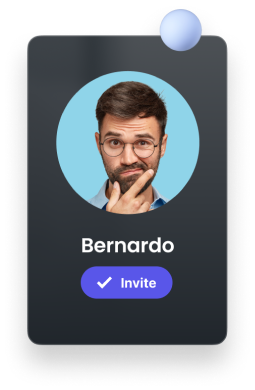
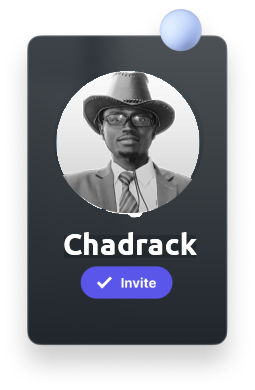
first commit

Changed region(s): [[0.2196, 0.1846, 0.7961, 0.5846], [0.2471, 0.5846, 0.7686, 0.6769]]

diff --git a/team.html b/team.html
@@ -271,7 +271,7 @@
                         <div class="team-grid active">
                             <div class="thumbnail">
                                 <a href="single-team.html">
-                                    <img src="assets/media/team/team-1.png" alt="Team Member">
+                                    <img src="assets/media/team/team-1.SVG" alt="Team Member">
                                 </a>
                             </div>
                             <div class="content">
@@ -285,7 +285,7 @@
                         <div class="team-grid">
                             <div class="thumbnail">
                                 <a href="single-team.html">
-                                    <img src="assets/media/team/team-2.png" alt="Team Member">
+                                    <img src="assets/media/team/2.png" alt="Team Member">
                                 </a>
                             </div>
                             <div class="content">
@@ -299,7 +299,7 @@
                         <div class="team-grid">
                             <div class="thumbnail">
                                 <a href="single-team.html">
-                                    <img src="assets/media/team/team-3.png" alt="Team Member">
+                                    <img src="assets/media/team/-3.png" alt="Team Member">
                                 </a>
                             </div>
                             <div class="content">
@@ -313,7 +313,7 @@
                         <div class="team-grid">
                             <div class="thumbnail">
                                 <a href="single-team.html">
-                                    <img src="assets/media/team/team-4.png" alt="Team Member">
+                                    <img src="assets/media/team/-4.png" alt="Team Member">
                                 </a>
                             </div>
                             <div class="content">
@@ -327,7 +327,7 @@
                         <div class="team-grid">
                             <div class="thumbnail">
                                 <a href="single-team.html">
-                                    <img src="assets/media/team/team-5.png" alt="Team Member">
+                                    <img src="assets/media/team/-5.png" alt="Team Member">
                                 </a>
                             </div>
                             <div class="content">
@@ -341,7 +341,7 @@
                         <div class="team-grid">
                             <div class="thumbnail">
                                 <a href="single-team.html">
-                                    <img src="assets/media/team/team-6.png" alt="Team Member">
+                                    <img src="assets/media/team/-6.png" alt="Team Member">
                                 </a>
                             </div>
                             <div class="content">
@@ -355,7 +355,7 @@
                         <div class="team-grid">
                             <div class="thumbnail">
                                 <a href="single-team.html">
-                                    <img src="assets/media/team/team-7.png" alt="Team Member">
+                                    <img src="assets/media/team/-7.png" alt="Team Member">
                                 </a>
                             </div>
                             <div class="content">
@@ -369,7 +369,7 @@
                         <div class="team-grid">
                             <div class="thumbnail">
                                 <a href="single-team.html">
-                                    <img src="assets/media/team/team-8.png" alt="Team Member">
+                                    <img src="assets/media/team/-8.png" alt="Team Member">
                                 </a>
                             </div>
                             <div class="content">
@@ -399,7 +399,7 @@
                 </div>
                 <div class="about-expert">
                     <div class="thumbnail">
-                        <img src="assets/media/about/about-1.png" alt="Thumbnail">
+                        <img src="assets/media/team/inno.png" alt="Thumbnail">
                         <div class="popup-video">
                             <a href="https://www.youtube.com/watch?v=1iIZeIy7TqM" class="play-btn popup-youtube"><i class="fas fa-play"></i></a>
                         </div>
@@ -552,15 +552,15 @@
                     <div class="row">
                         <div class="col-md-6">
                             <div class="footer-copyright">
-                                <span class="copyright-text">© 2021. All rights reserved by <a
-                                        href="https://axilthemes.com/">Axilthemes</a>.</span>
+                                <span class="copyright-text">© 2025. All rights designed by <a
+                                        href="https://ischadrack.github.io/Softrak/">Chadrack BYAMUNGU
                             </div>
                         </div>
                         <div class="col-md-6">
                             <div class="footer-bottom-link">
                                 <ul class="list-unstyled">
-                                    <li><a href="privacy-policy.html">Privacy Policy</a></li>
-                                    <li><a href="terms-of-use.html">Terms of Use</a></li>
+                                    <li><a href="#">Privacy Policy</a></li>
+                                    <li><a href="#">Terms of Use</a></li>
                                 </ul>
                             </div>
                         </div>

diff --git a/index.html b/index.html
@@ -1024,15 +1024,15 @@
                     <div class="row">
                         <div class="col-md-6">
                             <div class="footer-copyright">
-                                <span class="copyright-text">© 2021. All rights reserved by <a
-                                        href="https://axilthemes.com/">Axilthemes</a>.</span>
+                                <span class="copyright-text">© 2025. All rights designed by <a
+                                        href="https://ischadrack.github.io/Softrak/">Chadrack BYAMUNGU
                             </div>
                         </div>
                         <div class="col-md-6">
                             <div class="footer-bottom-link">
                                 <ul class="list-unstyled">
-                                    <li><a href="privacy-policy.html">Privacy Policy</a></li>
-                                    <li><a href="terms-of-use.html">Terms of Use</a></li>
+                                    <li><a href="#">Privacy Policy</a></li>
+                                    <li><a href="#">Terms of Use</a></li>
                                 </ul>
                             </div>
                         </div>

diff --git a/about.html b/about.html
@@ -547,15 +547,15 @@
                     <div class="row">
                         <div class="col-md-6">
                             <div class="footer-copyright">
-                                <span class="copyright-text">© 2021. All rights reserved by <a
-                                        href="https://axilthemes.com/">Axilthemes</a>.</span>
+                                <span class="copyright-text">© 2025. All rights designed by <a
+                                        href="https://ischadrack.github.io/Softrak/">Chadrack BYAMUNGU
                             </div>
                         </div>
                         <div class="col-md-6">
                             <div class="footer-bottom-link">
                                 <ul class="list-unstyled">
-                                    <li><a href="privacy-policy.html">Privacy Policy</a></li>
-                                    <li><a href="terms-of-use.html">Terms of Use</a></li>
+                                    <li><a href="#">Privacy Policy</a></li>
+                                    <li><a href="#">Terms of Use</a></li>
                                 </ul>
                             </div>
                         </div>

diff --git a/blog.html b/blog.html
@@ -653,15 +653,15 @@
                     <div class="row">
                         <div class="col-md-6">
                             <div class="footer-copyright">
-                                <span class="copyright-text">© 2021. All rights reserved by <a
-                                        href="https://axilthemes.com/">Axilthemes</a>.</span>
+                                <span class="copyright-text">© 2025. All rights designed by <a
+                                        href="https://ischadrack.github.io/Softrak/">Chadrack BYAMUNGU
                             </div>
                         </div>
                         <div class="col-md-6">
                             <div class="footer-bottom-link">
                                 <ul class="list-unstyled">
-                                    <li><a href="privacy-policy.html">Privacy Policy</a></li>
-                                    <li><a href="terms-of-use.html">Terms of Use</a></li>
+                                    <li><a href="#">Privacy Policy</a></li>
+                                    <li><a href="#">Terms of Use</a></li>
                                 </ul>
                             </div>
                         </div>

diff --git a/contact.html b/contact.html
@@ -430,15 +430,15 @@
                     <div class="row">
                         <div class="col-md-6">
                             <div class="footer-copyright">
-                                <span class="copyright-text">© 2021. All rights reserved by <a
-                                        href="https://axilthemes.com/">Axilthemes</a>.</span>
+                                <span class="copyright-text">© 2025. All rights designed by <a
+                                        href="https://ischadrack.github.io/Softrak/">Chadrack BYAMUNGU
                             </div>
                         </div>
                         <div class="col-md-6">
                             <div class="footer-bottom-link">
                                 <ul class="list-unstyled">
-                                    <li><a href="privacy-policy.html">Privacy Policy</a></li>
-                                    <li><a href="terms-of-use.html">Terms of Use</a></li>
+                                    <li><a href="#">Privacy Policy</a></li>
+                                    <li><a href="#">Terms of Use</a></li>
                                 </ul>
                             </div>
                         </div>

diff --git a/portfolio-4.html b/portfolio-4.html
@@ -503,15 +503,15 @@
                     <div class="row">
                         <div class="col-md-6">
                             <div class="footer-copyright">
-                                <span class="copyright-text">© 2021. All rights reserved by <a
-                                        href="https://axilthemes.com/">Axilthemes</a>.</span>
+                                <span class="copyright-text">© 2025. All rights designed by <a
+                                        href="https://ischadrack.github.io/Softrak/">Chadrack BYAMUNGU
                             </div>
                         </div>
                         <div class="col-md-6">
                             <div class="footer-bottom-link">
                                 <ul class="list-unstyled">
-                                    <li><a href="privacy-policy.html">Privacy Policy</a></li>
-                                    <li><a href="terms-of-use.html">Terms of Use</a></li>
+                                    <li><a href="#">Privacy Policy</a></li>
+                                    <li><a href="#">Terms of Use</a></li>
                                 </ul>
                             </div>
                         </div>

diff --git a/service.html b/service.html
@@ -925,15 +925,15 @@
                     <div class="row">
                         <div class="col-md-6">
                             <div class="footer-copyright">
-                                <span class="copyright-text">© 2021. All rights reserved by <a
-                                        href="https://axilthemes.com/">Axilthemes</a>.</span>
+                                <span class="copyright-text">© 2025. All rights designed by <a
+                                        href="https://ischadrack.github.io/Softrak/">Chadrack BYAMUNGU
                             </div>
                         </div>
                         <div class="col-md-6">
                             <div class="footer-bottom-link">
                                 <ul class="list-unstyled">
-                                    <li><a href="privacy-policy.html">Privacy Policy</a></li>
-                                    <li><a href="terms-of-use.html">Terms of Use</a></li>
+                                    <li><a href="#">Privacy Policy</a></li>
+                                    <li><a href="#">Terms of Use</a></li>
                                 </ul>
                             </div>
                         </div>

diff --git a/testimonial.html b/testimonial.html
@@ -493,15 +493,15 @@
                     <div class="row">
                         <div class="col-md-6">
                             <div class="footer-copyright">
-                                <span class="copyright-text">© 2021. All rights reserved by <a
-                                        href="https://axilthemes.com/">Axilthemes</a>.</span>
+                                <span class="copyright-text">© 2025. All rights designed by <a
+                                        href="https://ischadrack.github.io/Softrak/">Chadrack BYAMUNGU
                             </div>
                         </div>
                         <div class="col-md-6">
                             <div class="footer-bottom-link">
                                 <ul class="list-unstyled">
-                                    <li><a href="privacy-policy.html">Privacy Policy</a></li>
-                                    <li><a href="terms-of-use.html">Terms of Use</a></li>
+                                    <li><a href="#">Privacy Policy</a></li>
+                                    <li><a href="#">Terms of Use</a></li>
                                 </ul>
                             </div>
                         </div>

diff --git a/pricing-table.html b/pricing-table.html
@@ -544,14 +544,15 @@
                     <div class="row">
                         <div class="col-md-6">
                             <div class="footer-copyright">
-                                <span class="copyright-text">© 2021. All rights reserved by <a href="https://axilthemes.com/">Axilthemes</a>.</span>
+                                <span class="copyright-text">© 2025. All rights designed by <a
+                                        href="https://ischadrack.github.io/Softrak/">Chadrack BYAMUNGU
                             </div>
                         </div>
                         <div class="col-md-6">
                             <div class="footer-bottom-link">
                                 <ul class="list-unstyled">
-                                    <li><a href="privacy-policy.html">Privacy Policy</a></li>
-                                    <li><a href="terms-of-use.html">Terms of Use</a></li>
+                                    <li><a href="#">Privacy Policy</a></li>
+                                    <li><a href="#">Terms of Use</a></li>
                                 </ul>
                             </div>
                         </div>

diff --git a/privacy-policy.html b/privacy-policy.html
@@ -384,14 +384,15 @@
                     <div class="row">
                         <div class="col-md-6">
                             <div class="footer-copyright">
-                                <span class="copyright-text">© 2021. All rights reserved by <a href="https://axilthemes.com/">Axilthemes</a>.</span>
+                                <span class="copyright-text">© 2025. All rights designed by <a
+                                        href="https://ischadrack.github.io/Softrak/">Chadrack BYAMUNGU
                             </div>
                         </div>
                         <div class="col-md-6">
                             <div class="footer-bottom-link">
                                 <ul class="list-unstyled">
-                                    <li><a href="privacy-policy.html">Privacy Policy</a></li>
-                                    <li><a href="terms-of-use.html">Terms of Use</a></li>
+                                    <li><a href="#">Privacy Policy</a></li>
+                                    <li><a href="#">Terms of Use</a></li>
                                 </ul>
                             </div>
                         </div>

diff --git a/single-blog-quote.html b/single-blog-quote.html
@@ -382,14 +382,15 @@
                     <div class="row">
                         <div class="col-md-6">
                             <div class="footer-copyright">
-                                <span class="copyright-text">© 2021. All rights reserved by <a href="https://axilthemes.com/">Axilthemes</a>.</span>
+                                <span class="copyright-text">© 2025. All rights designed by <a
+                                        href="https://ischadrack.github.io/Softrak/">Chadrack BYAMUNGU
                             </div>
                         </div>
                         <div class="col-md-6">
                             <div class="footer-bottom-link">
                                 <ul class="list-unstyled">
-                                    <li><a href="privacy-policy.html">Privacy Policy</a></li>
-                                    <li><a href="terms-of-use.html">Terms of Use</a></li>
+                                    <li><a href="#">Privacy Policy</a></li>
+                                    <li><a href="#">Terms of Use</a></li>
                                 </ul>
                             </div>
                         </div>

diff --git a/single-blog.html b/single-blog.html
@@ -651,14 +651,15 @@
                     <div class="row">
                         <div class="col-md-6">
                             <div class="footer-copyright">
-                                <span class="copyright-text">© 2021. All rights reserved by <a href="https://axilthemes.com/">Axilthemes</a>.</span>
+                                <span class="copyright-text">© 2025. All rights designed by <a
+                                        href="https://ischadrack.github.io/Softrak/">Chadrack BYAMUNGU
                             </div>
                         </div>
                         <div class="col-md-6">
                             <div class="footer-bottom-link">
                                 <ul class="list-unstyled">
-                                    <li><a href="privacy-policy.html">Privacy Policy</a></li>
-                                    <li><a href="terms-of-use.html">Terms of Use</a></li>
+                                    <li><a href="#">Privacy Policy</a></li>
+                                    <li><a href="#">Terms of Use</a></li>
                                 </ul>
                             </div>
                         </div>
